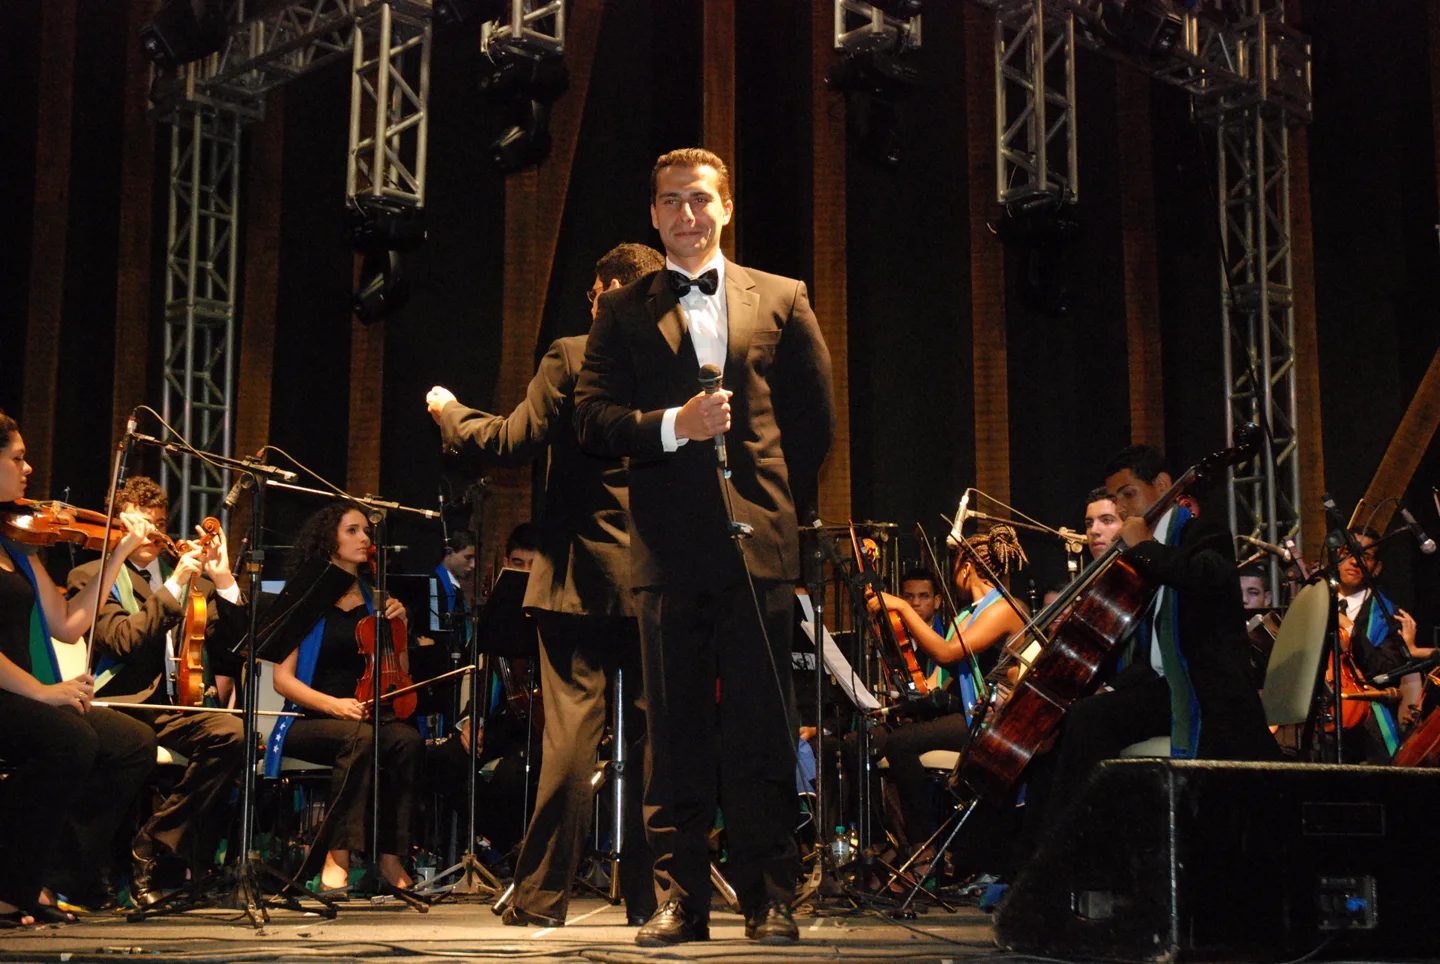
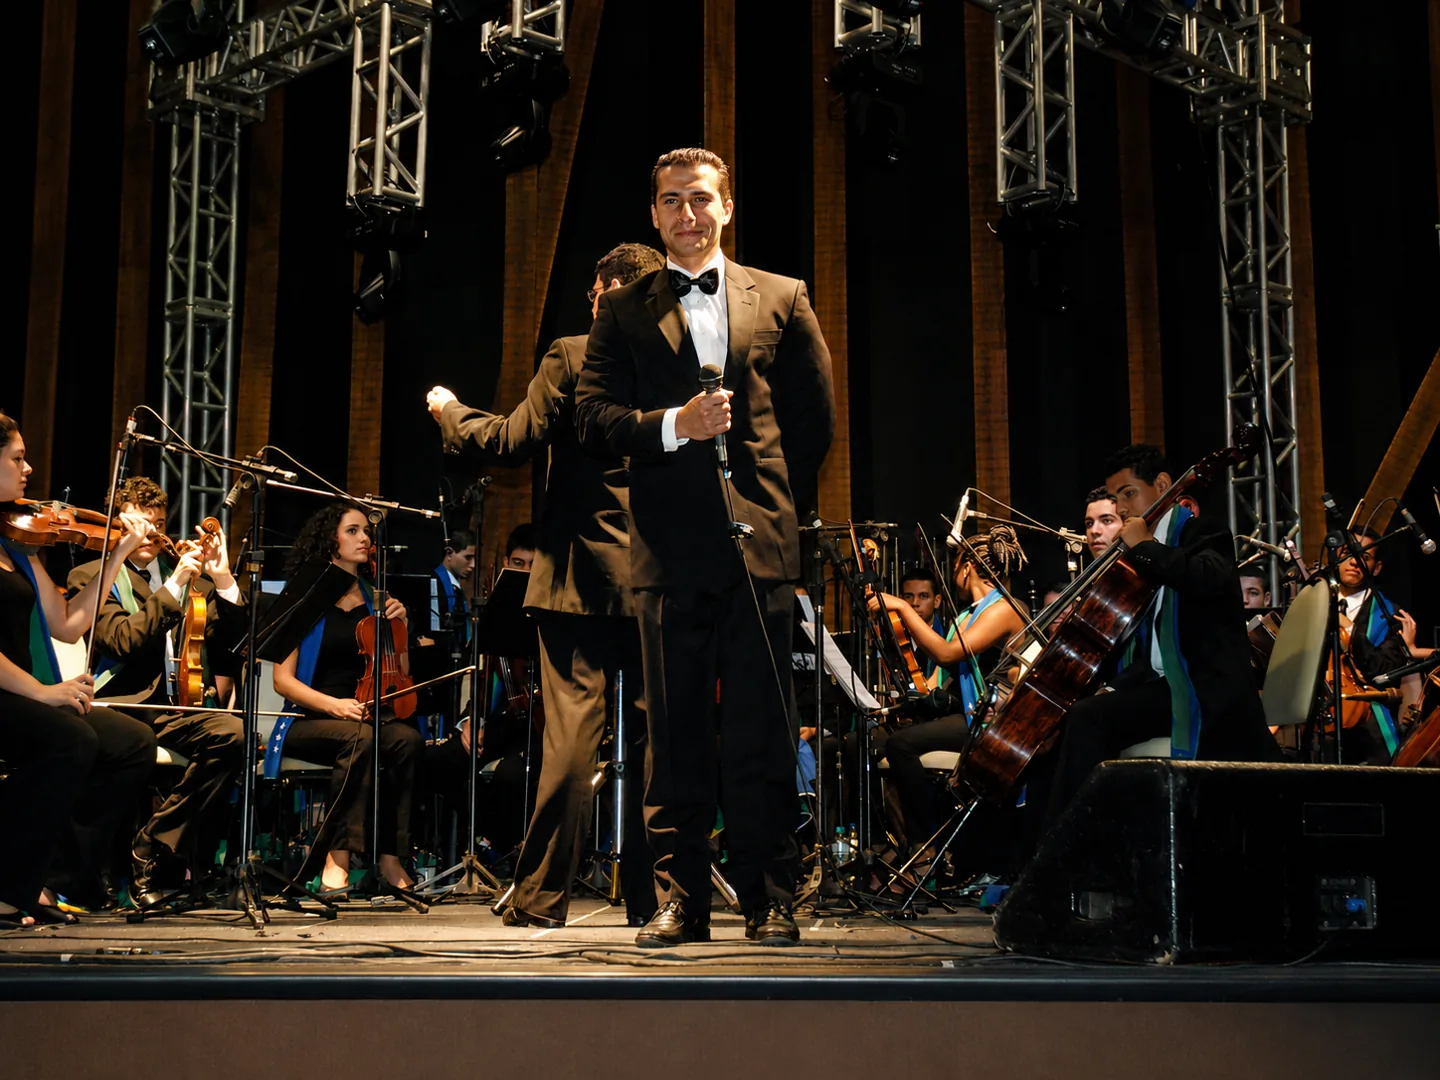
updated designs

diff --git a/de/index.html b/de/index.html
@@ -164,11 +164,11 @@
         <div class="home-concert-image-wrap" data-reveal>
           <img
             class="home-concert-image"
-            src="../assets/photos-new/max-wilson-cachoeiro-orchestra-solo-2010.jpg"
+            src="../assets/photos-new/cachoeiro-orchestra.png"
             srcset="../assets/optimized/cachoeiro-orchestra-720.webp 720w, ../assets/optimized/cachoeiro-orchestra-1440.webp 1440w"
             sizes="(min-width: 64rem) 50vw, 100vw"
-            width="1936"
-            height="1296"
+            width="1448"
+            height="1086"
             alt="Max Wilson Pereira singt mit einem Orchester in Cachoeiro de Itapemirim"
             loading="lazy"
             decoding="async"

diff --git a/en/index.html b/en/index.html
@@ -164,11 +164,11 @@
         <div class="home-concert-image-wrap" data-reveal>
           <img
             class="home-concert-image"
-            src="../assets/photos-new/max-wilson-cachoeiro-orchestra-solo-2010.jpg"
+            src="../assets/photos-new/cachoeiro-orchestra.png"
             srcset="../assets/optimized/cachoeiro-orchestra-720.webp 720w, ../assets/optimized/cachoeiro-orchestra-1440.webp 1440w"
             sizes="(min-width: 64rem) 50vw, 100vw"
-            width="1936"
-            height="1296"
+            width="1448"
+            height="1086"
             alt="Max Wilson Pereira singing with an orchestra in Cachoeiro de Itapemirim"
             loading="lazy"
             decoding="async"

diff --git a/index.html b/index.html
@@ -163,11 +163,11 @@
         <div class="home-concert-image-wrap" data-reveal>
           <img
             class="home-concert-image"
-            src="assets/photos-new/max-wilson-cachoeiro-orchestra-solo-2010.jpg"
+            src="assets/photos-new/cachoeiro-orchestra.png"
             srcset="assets/optimized/cachoeiro-orchestra-720.webp 720w, assets/optimized/cachoeiro-orchestra-1440.webp 1440w"
             sizes="(min-width: 64rem) 50vw, 100vw"
-            width="1936"
-            height="1296"
+            width="1448"
+            height="1086"
             alt="Max Wilson Pereira cantando com uma orquestra em Cachoeiro de Itapemirim"
             loading="lazy"
             decoding="async"

diff --git a/css/style.css b/css/style.css
@@ -3086,7 +3086,7 @@ input:focus-visible {
 }
 
 .site-footer-name {
-  color: var(--color-paper);
+  color: var(--color-brass);
   font-size: clamp(2rem, 5vw, 3.6rem);
   line-height: 1;
   text-decoration: none;
@@ -3689,6 +3689,7 @@ max-microphone-interlude {
 /* Biography chapter headings retain their brass editorial accent on every field. */
 .page-sub .biography-copy.content-section h2.accent {
   color: var(--color-brass);
+  font-weight: 700;
 }
 
 /* Biography highlights share the brass emphasis used by chapter titles. */

diff --git a/en/pages/albums.html b/en/pages/albums.html
@@ -225,7 +225,7 @@
           <div class="album-hero-copy">
             <max-badge text="Digital album"></max-badge>
             <p class="album-kicker">Max Wilson Pereira</p>
-            <h2>Tenori Amici</h2>
+            <h2>TENORI AMICI</h2>
             <p>
               An album released by the Biscoito Fino record label, bringing classical and popular repertoire together in a vocal crossover format.
             </p>

diff --git a/de/pages/albums.html b/de/pages/albums.html
@@ -225,7 +225,7 @@
           <div class="album-hero-copy">
             <max-badge text="Digitales Album"></max-badge>
             <p class="album-kicker">Max Wilson Pereira</p>
-            <h2>Tenori Amici</h2>
+            <h2>TENORI AMICI</h2>
             <p>
               Ein Album des Labels Biscoito Fino, das klassisches und populäres Repertoire im Vocal-Crossover-Format verbindet.
             </p>

diff --git a/pages/albums.html b/pages/albums.html
@@ -227,7 +227,7 @@
           <div class="album-hero-copy">
             <max-badge text="Álbum digital"></max-badge>
             <p class="album-kicker">Max Wilson Pereira</p>
-            <h2>Tenori Amici</h2>
+            <h2>TENORI AMICI</h2>
             <p>
               Álbum lançado pela gravadora Biscoito Fino, reunindo repertório
               clássico e popular em formato crossover vocal.
